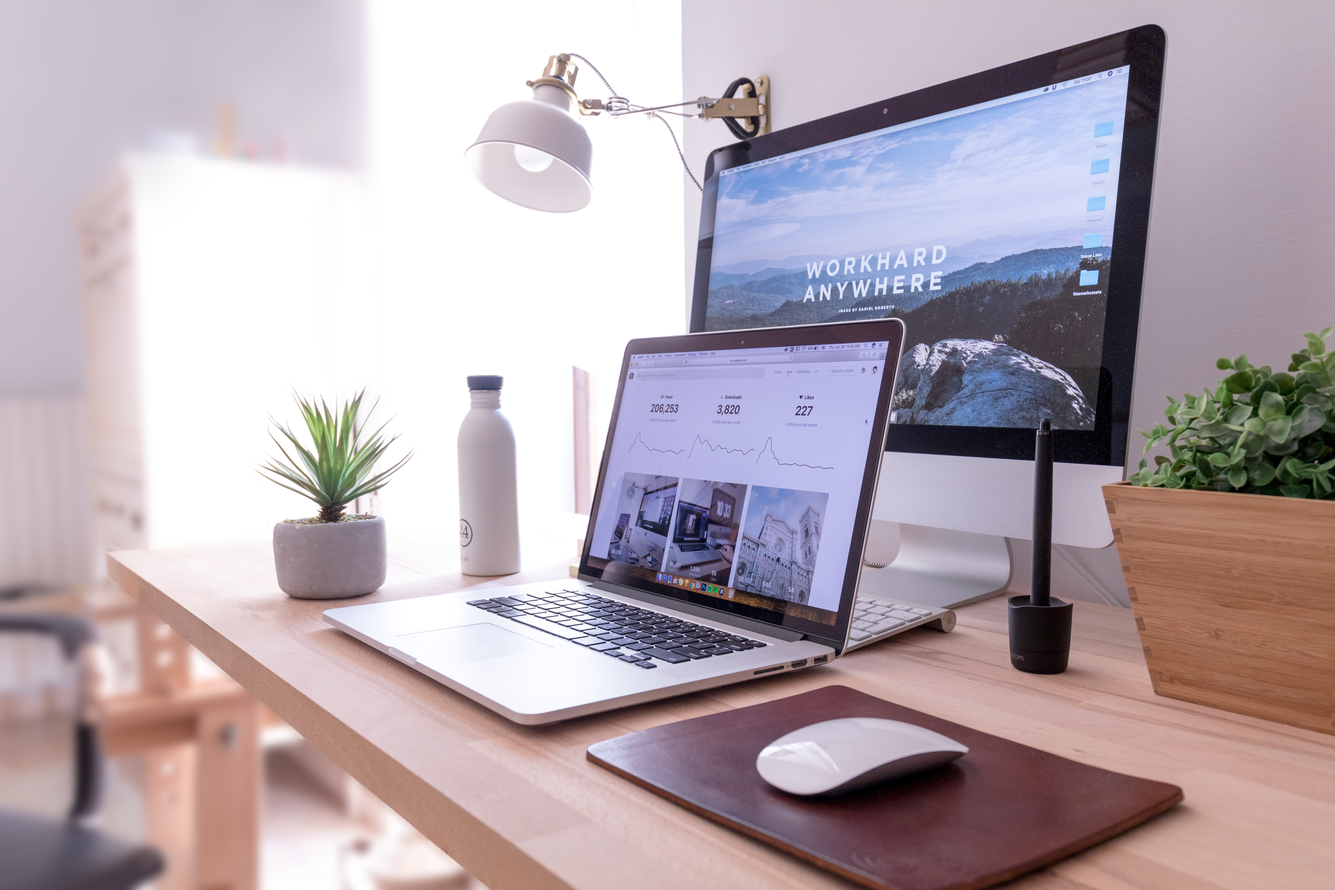
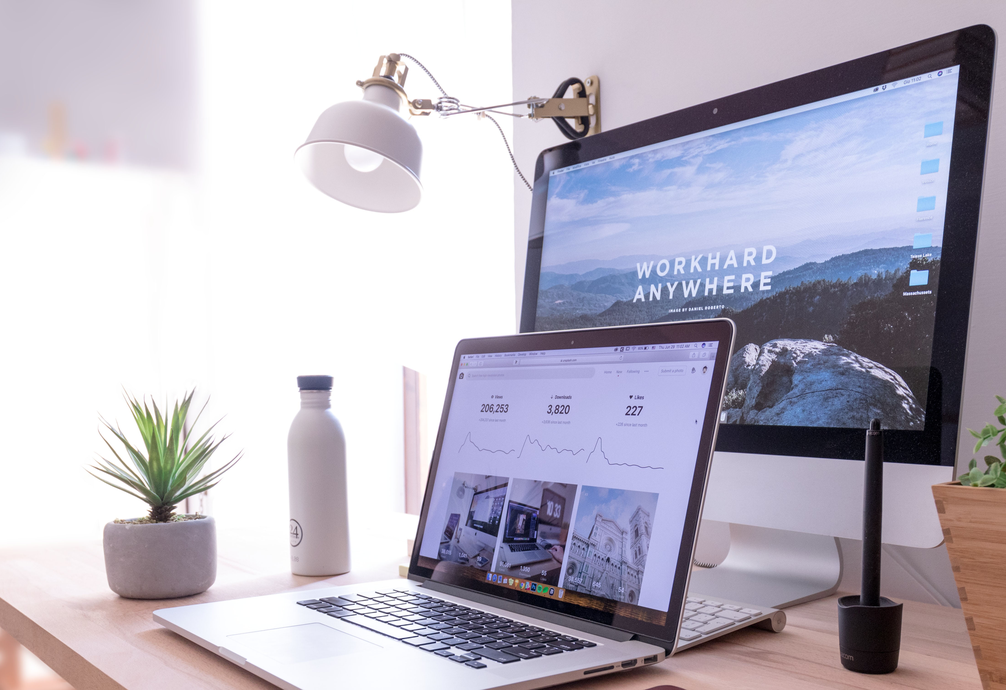
背景を調整

diff --git a/css/style.css b/css/style.css
@@ -44,12 +44,12 @@ li:last-child {
     background-image: url(/css/img/bg.jpg);
     background-color: #aaa;
     background-blend-mode: soft-light;
-    background-size: cover;
-    background-position: top center;
+    background-size: contain;
+    background-position: top right;
 }
 
 .container {
-    max-width: 60%;
+    max-width: 70%;
     height: 100vh;
     padding: 10px 0;
     background-color: #fff;
